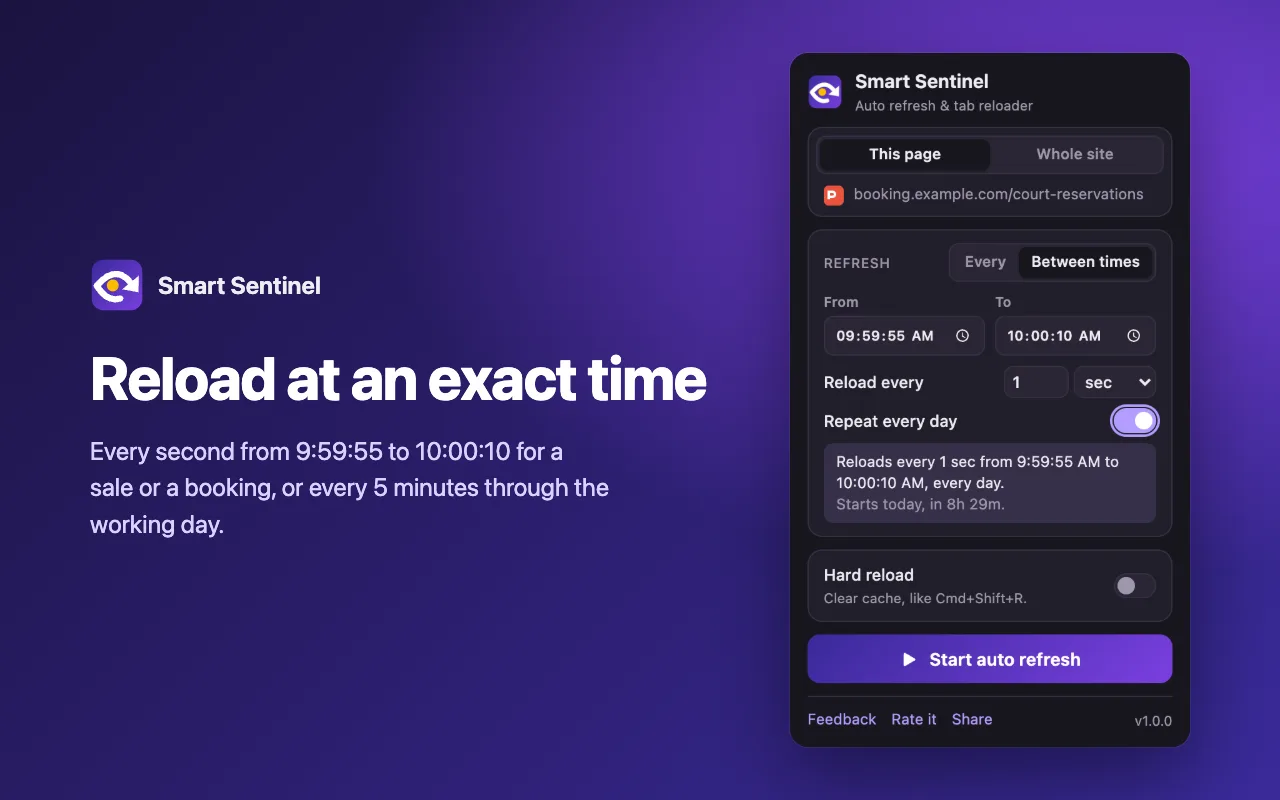
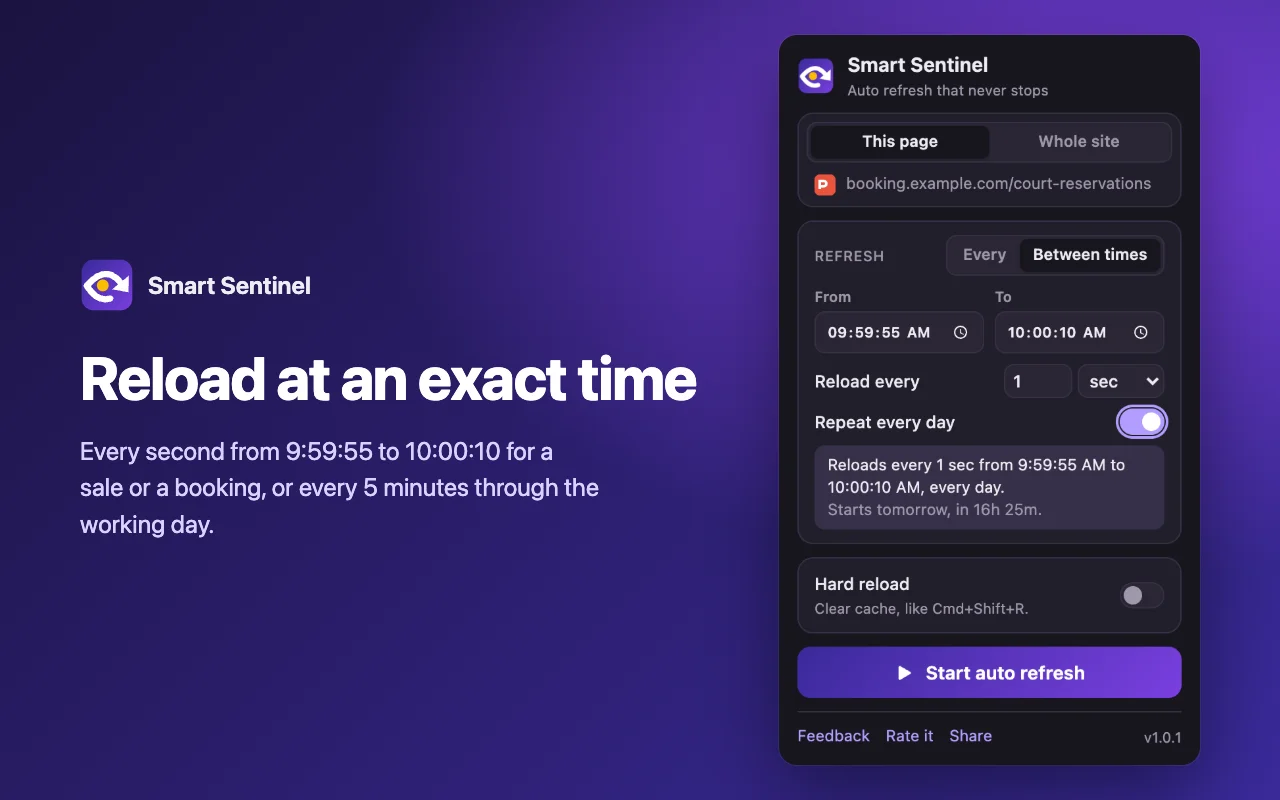
Smart Sentinel 1.0.1: new store name and screenshots
Store name is now "Auto Refresh That Never Stops – Smart Sentinel".
Screenshots re-rendered from 1.0.1 (new popup subtitle, bigger popup);
gallery leads with the retrying shot.

diff --git a/src/pages/SmartSentinel.jsx b/src/pages/SmartSentinel.jsx
@@ -28,10 +28,10 @@ export const FEATURES = [
 const USES = ["Ticket and sneaker drops", "Visa and exam appointments", "Back-in-stock pages", "Dashboards and reports", "Order and support queues", "Job and freelance boards", "Live scores and auctions", "Your own site while you build it"];
 
 const SHOTS = [
-  ["shot-pick-interval.png", "Smart Sentinel popup: pick an interval from 5 seconds to 15 minutes, This page or Whole site", "Pick an interval and press Start."],
+  ["shot-retrying.png", "Smart Sentinel popup retrying after a page failed to load (connection refused)", "Failed loads are retried with a growing wait."],
   ["shot-exact-time.png", "Smart Sentinel popup set to reload every second between 9:59:55 and 10:00:10, every day", "Reload at an exact time, every day if you like."],
   ["shot-random-stop.png", "Smart Sentinel popup with a random 30–60 second interval, an auto stop after 1 hour and hard reload", "Random intervals, auto stop and hard reload."],
-  ["shot-retrying.png", "Smart Sentinel popup retrying after a page failed to load (connection refused)", "Failed loads are retried with a growing wait."]
+  ["shot-pick-interval.png", "Smart Sentinel popup: pick an interval from 5 seconds to 15 minutes, This page or Whole site", "Pick an interval and press Start."]
 ];
 
 export const FAQ = [

diff --git a/src/site.js b/src/site.js
@@ -51,9 +51,9 @@ export const SENTINEL = {
   path: "/e/smart-sentinel/",
   privacyPath: "/e/smart-sentinel/privacy/",
   name: "Smart Sentinel",
-  storeName: "Smart Sentinel – Auto Refresh & Tab Reloader",
-  version: "1.0.0",
-  released: "2026-11-21",
+  storeName: "Auto Refresh That Never Stops – Smart Sentinel",
+  version: "1.0.1",
+  released: "2026-11-26",
   // Chrome Web Store listing. Empty = "Coming soon" instead of Add to Chrome, and no Rate / Reinstall links.
   chromeStoreUrl: "https://chromewebstore.google.com/detail/smart-sentinel-%E2%80%93-auto-ref/fhikicejdnionanjgbocbhpkmikdjhnj",
   feedbackUrl: "/api/feedback.php",
